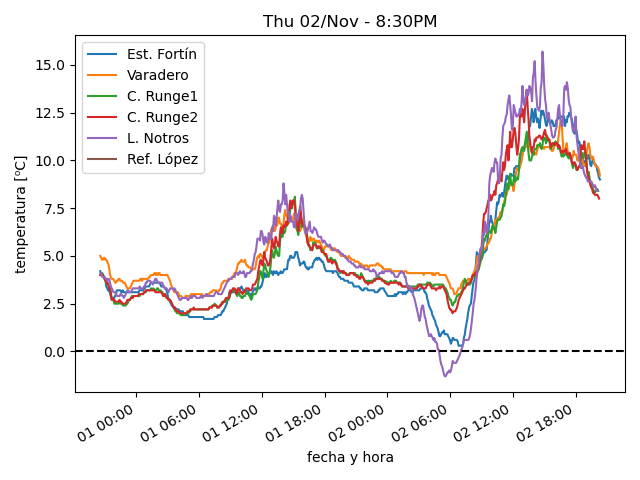
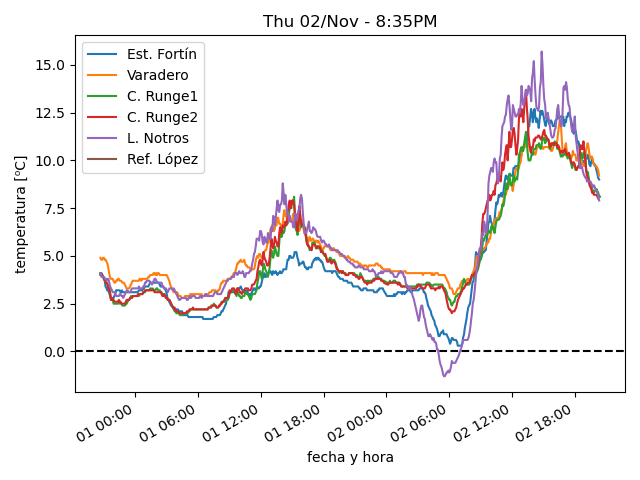
actualiza datos

diff --git a/estaciones/estacion3.html b/estaciones/estacion3.html
@@ -18,32 +18,32 @@
     </tr>
     <tr>
      <td class="stats_data">
-      8:09PM
+      8:24PM
      </td>
     </tr>
     <tr>
      <td class="stats_data">
-      8.4⁰C
+      8.1⁰C
      </td>
     </tr>
     <tr>
      <td class="stats_data">
-      2.2⁰C
+      2.4⁰C
      </td>
     </tr>
     <tr>
      <td class="stats_data">
-      65.0%
+      67.3%
      </td>
     </tr>
     <tr>
      <td class="stats_data">
-      1010.43hPa
+      1010.74hPa
      </td>
     </tr>
     <tr>
      <td class="stats_data">
-      8.8/11.6 km/hr WNW
+      6.5/9.5 km/hr W
      </td>
     </tr>
     <tr>
@@ -58,7 +58,7 @@
     </tr>
     <tr>
      <td class="stats_data">
-      14.3 W/m²
+      4.8 W/m²
      </td>
     </tr>
    </tbody>

diff --git a/estaciones/estacion5.html b/estaciones/estacion5.html
@@ -18,27 +18,27 @@
     </tr>
     <tr>
      <td class="stats_data">
-      8:05PM
+      8:20PM
      </td>
     </tr>
     <tr>
      <td class="stats_data">
-      8.4⁰C
+      7.9⁰C
      </td>
     </tr>
     <tr>
      <td class="stats_data">
-      3.6⁰C
+      3.7⁰C
      </td>
     </tr>
     <tr>
      <td class="stats_data">
-      72.0%
+      75.0%
      </td>
     </tr>
     <tr>
      <td class="stats_data">
-      1021.94hPa
+      1022.32hPa
      </td>
     </tr>
     <tr>
